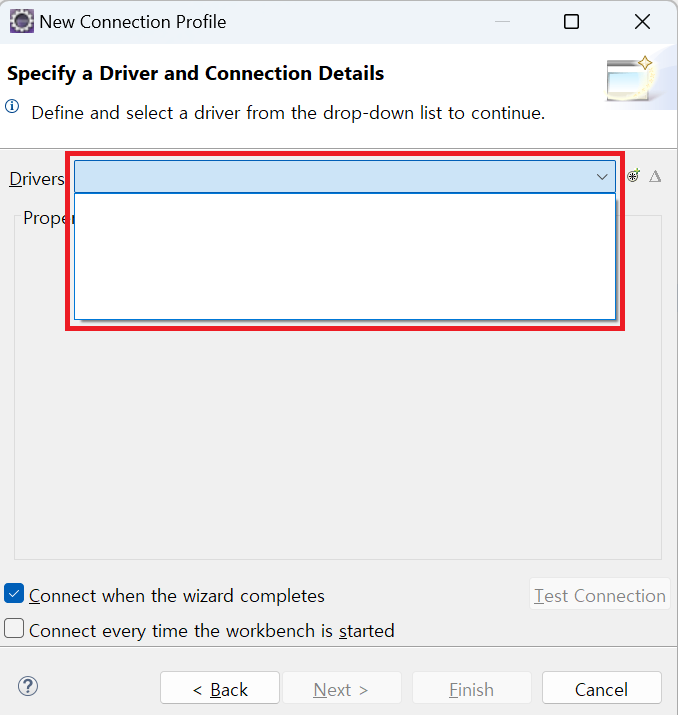
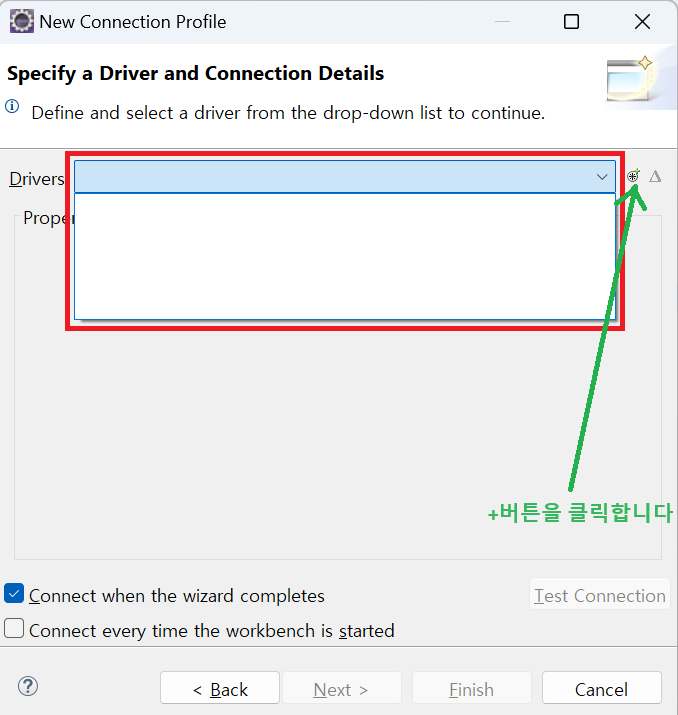
mysql

Changed region(s): [[0.7124, 0.4308, 0.9912, 0.7385], [0.8982, 0.2462, 0.9602, 0.4308]]

diff --git a/_posts/LESSON/SQL(Lesson)/2024-07-26-install_mysql.md b/_posts/LESSON/SQL(Lesson)/2024-07-26-install_mysql.md
@@ -60,6 +60,11 @@ author_profile: false
    Program Files(x86)   
    ProgramData   
    각각의 폴더에 MySQL이란 폴더가 생성됩니다.    
+   
+   ```
+      C:\ProgramData\MySQL\MySQL Server 8.0\Data
+   ```   
+   데이터베이스는 해당 경로에 설치되어있습니다.
    <img src="../../../imgs/LESSON/SQL(Lesson)/mysql_install13.png" style="border:3px solid black;border-radius:9px;width:600px">   
 
    오라클은 자동으로 Path가 잡히기 때문에 설정이 필요없지만 MySQL은 Path설정을 해야합니다.   
@@ -69,9 +74,12 @@ author_profile: false
    <img src="../../../imgs/LESSON/SQL(Lesson)/mysql_install14.png" style="border:3px solid black;border-radius:9px;width:700px">   
 
    cmd창에으로 mysql에 접속합니다.   
-   mysql -uroot -p1234 mysql   
+   mysql -uroot -p1256 mysql   
    <span style="color:red">명령어  -u계정명 -p비밀번호 접속할DB명</span>   
    <img src="../../../imgs/LESSON/SQL(Lesson)/mysql_install15.png" style="border:3px solid black;border-radius:9px;width:700px">   
+
+   -p비밀번호를 생략하고 입력하면 화면에 노출되지 않고 비밀번호를 입력할 수 있습니다.   
+   <img src="../../../imgs/LESSON/SQL(Lesson)/mysql_passwd_2.png" style="border:3px solid black;border-radius:9px;width:700px">   
 
    ```
       show databases;   --데이터베이스 목록
@@ -127,3 +135,48 @@ author_profile: false
 
    새로운 커넥션이 생성되었습니다.   
    <img src="../../../imgs/LESSON/SQL(Lesson)/mysql_install19.png" style="border:3px solid black;border-radius:9px;width:700px">   
+
+1. # JDBC 연동
+   MySQL사이트에서 JDBC를 다운 받습니다.   
+   <a href="https://dev.mysql.com/downloads/connector/j/">https://dev.mysql.com/downloads/connector/j/</a>   
+
+   Platform Independent를 선택 후 zip파일을 다운 받습니다.
+   <img src="../../../imgs/LESSON/SQL(Lesson)/mysql_jdbc1.png" style="border:3px solid black;border-radius:9px;width:700px">   
+
+   압축을 풀고 "mysql-connector-j-9.0.0.jar"파일을 `C:\Program Files\Java\jdk-17\lib` 안에 넣습니다.   
+
+   이클립스에서 라이브러리를 추가 합니다.   
+   <img src="../../../imgs/LESSON/SQL(Lesson)/mysql_library.png" style="border:3px solid black;border-radius:9px;width:700px">   
+
+   Data Source Explorer로 연결을 합니다. Database Connections에서 마우스 오른쪽 버튼을 눌러 New를 선택합니다. New Connection Profile에 설정을 합니다.    
+   <img src="../../../imgs/LESSON/SQL(Lesson)/mysql_profile_name.png" style="border:3px solid black;border-radius:9px;width:5ㄴ00px">   
+   구별하기 위해 Name에 계정 아이디를 입력합니다.   
+
+   리스트에 목록을 추가하기 위해 옆에 + 버튼을 누릅니다.   
+   <img src="../../../imgs/LESSON/SQL(Lesson)/oracle11g_error.png" style="border:3px solid black;border-radius:9px;width:400px">   
+
+   MySQL 8.1버전이 없기 때문에 가장 높은 버전 5.1을 그냥 선택합니다.   
+   <img src="../../../imgs/LESSON/SQL(Lesson)/driverDefinition1.png" style="border:3px solid black;border-radius:9px;width:500px">   
+
+   JAR파일을 선택합니다.   
+   <img src="../../../imgs/LESSON/SQL(Lesson)/driverDefinition2.png" style="border:3px solid black;border-radius:9px;width:500px">   
+
+   데이터베이스이름, 계정와 패스워드를 각각 입력합니다.   
+   <img src="../../../imgs/LESSON/SQL(Lesson)/driverDefinition3.png" style="border:3px solid black;border-radius:9px;width:600px">   
+
+   finish를 입력하면 새로운 MySQL이 연동된 것을 알 수 있습니다.   
+   <img src="../../../imgs/LESSON/SQL(Lesson)/mysqlDB.png" style="border:3px solid black;border-radius:9px;width:600px">   
+
+1. # sql 파일 생성
+
+   오른쪽 상단에 javaEE perspective를 선택합니다.   
+   <img src="../../../imgs/LESSON/SQL(Lesson)/mysql_java_ee.png" style="border:3px solid black;border-radius:9px;width:400px">   
+
+   SqlFile을 선택합니다.   
+   <img src="../../../imgs/LESSON/SQL(Lesson)/SQLfile.png" style="border:3px solid black;border-radius:9px;width:600px">   
+
+   앞에서 입력한 목록이 나타나고 선택을 합니다.   
+   <img src="../../../imgs/LESSON/SQL(Lesson)/SQLfile2.png" style="border:3px solid black;border-radius:9px;width:500px">   
+
+   sql파일이 생성된 것을 확인할 수 있습니다.   
+   <img src="../../../imgs/LESSON/SQL(Lesson)/SQLfile3.png" style="border:3px solid black;border-radius:9px;width:700px">   

diff --git a/_posts/Git/2023-12-15-git-error.md b/_posts/Git/2023-12-15-git-error.md
@@ -114,11 +114,18 @@ tag: [git]
    <a href="https://khj20231204.github.io/ubuntu/Ubuntu-ssh_github_connect/">SSH키 생성</a>
    
 1. # refusing to merge unrelated histories
-   git pull 이나 git push를 한 경우 발생한다.   
+   2개의 리파지토리의 사용으로 충돌이 일어난 경우 발생. pull을 하지 않은 상태에서 기존 파일을 수정 후 git push나 git pull을 한 경우 발생.   
+   
    ```cs
       git pull origin master --allow-unrelated-histories
    ```   
    --allow-unrelated-histories : 관련 독립적인 두 프로젝트를 병할 할 때 사용하는 옵션   
+
+   또는 강제로 덮는 방법
+   ```cs
+      git push -f origin main
+   ```   
+   이 경우 깃허브에 있던 파일이 현재 git push하는 파일로 덮어쓰게 된다. 깃허브에 있는 파일이 중요하지 않다면 사용해도 되지만 중요한 파일들이 있다면 다른 방법으로 해야한다.   
    
 1. # error: Your local changes to the following files would be overwritten by merge:  
    원격 저장소에 있는 파일을 가져올 때 로컬에 수정한 파일이 존재해서 발생하는 error. pull을 먼저 해야 하는데 프로젝트 수정 중 pull을 하게 될 경우 발생   

diff --git a/_posts/LESSON/SQL(Lesson)/2024-07-29-mysql_grammer.md b/_posts/LESSON/SQL(Lesson)/2024-07-29-mysql_grammer.md
@@ -1,0 +1,27 @@
+---
+layout: single
+title: 07_26.MySql설치
+categories: SQL(Lesson)
+tag: []
+author_profile: false
+---
+
+1. # MySql과 오라클의 다른 점 
+   create sequence -> auto_increment
+   varchar2 -> varchar
+   sysdate -> sysdate()
+
+1. # 연산자
+
+   정렬
+   ```cs
+      select * from boardtest order by no asc;  //1,2,3,...
+      select * from boardtest order by no desc; //10,9,8,...
+   ```
+
+   limit : 추출할 데이터의 인덱스 번호, 추출할 데이터 갯수
+   ```cs
+      ex)select * from board order by no desc limit 0, 5; //최근 항목 5개 검색
+   ```   
+
+
